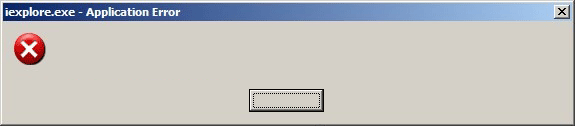
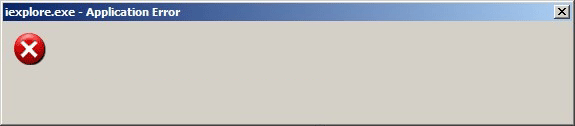
Attempt to fix positioning issues with IE dialog box.
git-svn-id: svn+ssh://wasabistudio.ca/repos/chat@71 0ac9fe74-5ead-4ad2-8745-27dd87abe343

Changed region(s): [[0.4139, 0.6905, 0.5617, 0.9048]]

diff --git a/client/chat.css b/client/chat.css
@@ -165,10 +165,10 @@ form {
 #ie-mask .message-box {
     background: url(images/ie-error.png) no-repeat;
     font-size: 12px;
-    line-height: 18px;
+    line-height: 14px;
     width: 500px;
-    height: 93px;
-    padding: 28px 15px 5px 60px;
+    height: 86px;
+    padding: 35px 15px 5px 60px;
     position: absolute;
     top: 175px;
     left: 18%;
@@ -176,15 +176,16 @@ form {
 }
 
 #ie-mask .message-box .ok {
-    padding: 20px 0 0 189px;
+    padding: 10px 0 0 189px;
 }
 
 #ie-mask .message-box .ok a {
+    background: url(images/ie-error-button.png) no-repeat;;
     color: black;
     text-align: center;
     text-decoration: none;
     width: 75px;
-    height: 16px;
-    padding: 6px 0 0 0;
+    height: 23px;
+    padding: 5px 0 0 0;
     display: block;
 }
